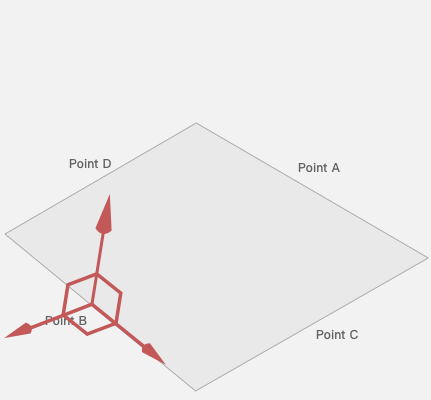
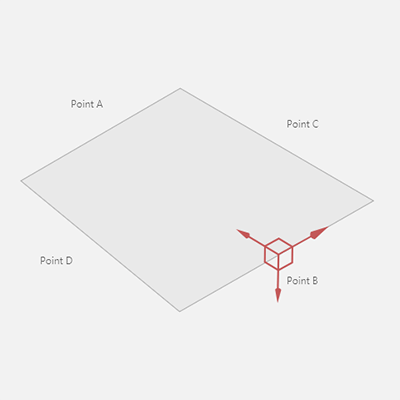
调整UI

diff --git a/web/src/components/Level/Index.jsx b/web/src/components/Level/Index.jsx
@@ -22,7 +22,8 @@ class Index extends React.Component {
         zArray: INIT_Z_ARRAY,
         lastConnectSerialPort: undefined,
         started: false,
-        serialPortState: null
+        serialPortState: null,
+        showLoading: false
     }
 
     onSetPoint = (event) => {
@@ -75,6 +76,7 @@ class Index extends React.Component {
         ];
         this.props.serialPortWrite(gcode.join('\n') + '\n');
         this.delayToConnectSerialPort(this, true, true, 'Level Started');
+        this.setState({showLoading: true});
     }
 
     onClickLevel = () => {
@@ -91,7 +93,7 @@ class Index extends React.Component {
         ];
         this.props.serialPortWrite(gcode.join('\n') + '\n');
         this.delayToConnectSerialPort(this, false, false, 'Level Done,you could reconnect the device.');
-
+        this.setState({showLoading: true});
     }
     delayToConnectSerialPort = (that, showModal, setStarted, msg) => {
         setTimeout(() => {
@@ -103,7 +105,7 @@ class Index extends React.Component {
             }
             if (paths.indexOf(lastConnectSerialPort) === -1) {
                 message.error('Device not Found');
-                this.setState({showModal: false});
+                this.setState({showModal: false, showLoading: false});
                 //找不到之前的串口
             } else {
                 //连接之前串口
@@ -124,7 +126,8 @@ class Index extends React.Component {
             message.success(msg);
             that.setState({
                 showModal,
-                started: setStarted
+                started: setStarted,
+                showLoading: false
             });
         }, 1000);
     }
@@ -157,7 +160,8 @@ class Index extends React.Component {
             accuracy: 10,
             zArray: INIT_Z_ARRAY,
             lastConnectSerialPort: path,
-            started: false
+            started: false,
+            showLoading: false
         });
     };
 
@@ -233,6 +237,16 @@ class Index extends React.Component {
                         <Space>
                             <img className={POINT_STYLE[pointIndex ? pointIndex : 0]}/>
                         </Space>
+                        <div
+                            className={this.state.showLoading ? styles.div_loading_visible : styles.div_loading_hidden}>
+                            <div className={styles.loading1}>
+                                <span></span>
+                                <span></span>
+                                <span></span>{/*进度条 勿删*/}
+                                <span></span>
+                                <span></span>
+                            </div>
+                        </div>
                     </Space>
                 </Modal>
             </div>

diff --git a/web/src/containers/basic/index.jsx b/web/src/containers/basic/index.jsx
@@ -33,8 +33,8 @@ class Index extends React.Component {
                     position: "absolute",
                     top: 0,
                     bottom: 0,
-                    right: "280px",
-                    width: "1.5px",
+                    right: "315px",
+                    width: "1px",
                     backgroundColor: "#C0C0C0"
                 }}/>
                 <div style={{
@@ -42,27 +42,28 @@ class Index extends React.Component {
                     top: 0,
                     right: 0,
                     bottom: 0,
-                    width: "280px",
-                    backgroundColor: "#f0f0f0",
+                    width: "315px",
+                    backgroundColor: "#F2F2F2",
                     overflowY: "scroll"
                 }}>
-                    <Tabs type="card" tabBarGutter={0} tabBarStyle={{width: "260px"}}>
+                    <Tabs type="card" centered={true} size="small" tabBarGutter={0}
+                          tabBarStyle={{height: "30px", width: "100%", marginBottom: "8px"}}>
                         <TabPane tab={
-                            <div style={{textAlign: "center", width: "42px", height: "100%"}}>
+                            <div style={{textAlign: "center", fontSize: "15px", width: "52px", height: "100%"}}>
                                 Control
                             </div>
                         } key="3">
                             <Control/>
                         </TabPane>
                         <TabPane tab={
-                            <div style={{textAlign: "center", width: "38px", height: "100%"}}>
+                            <div style={{textAlign: "center", fontSize: "15px", width: "52px", height: "100%"}}>
                                 Gcode
                             </div>
                         } key="2">
                             <Gcode/>
                         </TabPane>
                         <TabPane tab={
-                            <div style={{textAlign: "center", width: "76px", height: "100%"}}>
+                            <div style={{textAlign: "center", fontSize: "15px", width: "76px", height: "100%"}}>
                                 Teach & Play
                             </div>
                         } key="1">

diff --git a/web/src/components/Level/styles.css b/web/src/components/Level/styles.css
@@ -1,5 +1,5 @@
 .btn_action_work {
-    width: 255px;
+    width: 100%;
     height: 30px;
     outline: none;
     border: 1px solid #C0C0C0;
@@ -13,24 +13,105 @@
 
 .img_point_a {
     content: url("./images/pointA.png");
-    width: 430px;
+    width: 400px;
     height: 400px;
 }
 
 .img_point_b {
     content: url("./images/pointB.png");
-    width: 430px;
+    width: 400px;
     height: 400px;
 }
 
 .img_point_c {
     content: url("./images/pointC.png");
-    width: 430px;
+    width: 400px;
     height: 400px;
 }
 
 .img_point_d {
     content: url("./images/pointD.png");
-    width: 430px;
+    width: 400px;
     height: 400px;
+}
+
+.div_loading_hidden {
+    position: absolute;
+    left: 0px;
+    right: 0px;
+    top: 0px;
+    bottom: 0px;
+    background-color: #FFFFFFA0;
+    visibility: hidden;
+}
+
+.div_loading_visible {
+    position: absolute;
+    left: 0px;
+    right: 0px;
+    top: 0px;
+    bottom: 0px;
+    background-color: #FFFFFFA0;
+    visibility: visible;
+}
+
+.loading1 {
+    width: 50px;
+    height: 40px;
+    margin: 250px auto;
+    text-align: center;
+}
+
+.loading1 span {
+    width: 5px;
+    height: 100%;
+    display: inline-block;
+    background: #999999;;
+    margin: 2px;
+    animation: mymove 1.2s infinite ease-in-out;
+    -webkit-animation: mymove 1.2s infinite ease-in-out;
+    /*
+       mymove代表动画名字
+       1.2s代表执行时间
+       infinite表示一直循环执行
+       ease-in-out表示先慢后快的缓动
+   */
+}
+
+.loading1 > span:nth-child(2) {
+    -webkit-animation-delay: -1.0s;
+    animation-delay: -1.0s;
+}
+
+.loading1 > span:nth-child(3) {
+    -webkit-animation-delay: -0.9s;
+    animation-delay: -0.9s;
+}
+
+.loading1 > span:nth-child(4) {
+    -webkit-animation-delay: -0.8s;
+    animation-delay: -0.8s;
+}
+
+.loading1 > span:nth-child(5) {
+    -webkit-animation-delay: -0.7s;
+    animation-delay: -0.7s;
+}
+
+@keyframes mymove {
+    0% {
+        transform: scaleY(0.4);
+    }
+    25% {
+        transform: scaleY(1.0);
+    }
+    50% {
+        transform: scaleY(0.4);
+    }
+    75% {
+        transform: scaleY(0.4);
+    }
+    100% {
+        transform: scaleY(0.4);
+    }
 }

diff --git a/web/src/containers/basic/ui/Gcode/Index.jsx b/web/src/containers/basic/ui/Gcode/Index.jsx
@@ -80,7 +80,7 @@ class Index extends React.Component {
                     textColor="#292421"
                     delayShow={200}/>
                 <ReactTooltip/>
-                <Space direction={"vertical"} style={{width: "100%", paddingLeft: "5px", paddingRight: "5px"}}>
+                <Space direction={"vertical"} style={{width: "100%", padding: "6px"}}>
                     <Button
                         data-for={tooltipId}
                         // data-tip="Make sure that work origin had been setup before import 3rd part gcode."
@@ -123,7 +123,7 @@ class Index extends React.Component {
                 />
                 <Space direction={"vertical"} style={{width: "100%", paddingLeft: "5px", paddingRight: "5px"}}>
                     {this.state.fileName &&
-                    <div>
+                    <div style={{textAlign: "center"}}>
                         {this.state.fileName}
                     </div>}
                 </Space>

diff --git a/web/src/containers/basic/ui/Control/Index.jsx b/web/src/containers/basic/ui/Control/Index.jsx
@@ -81,7 +81,7 @@ class Index extends React.Component {
             <div>
                 <DeviceControl hideRunBoundary={true}/>
 
-                <div style={{padding: "10px 6px 0 6px"}}>
+                <div style={{padding: "6px"}}>
                     <Space direction={"vertical"} style={{width: "100%"}}>
                         <Select
                             style={{width: "100%", textAlign: "center"}}
@@ -106,7 +106,7 @@ class Index extends React.Component {
 
 
                 <Line/>
-                <div style={{padding: "0 6px 0 6px", width: "100%"}}>
+                <div style={{padding: "6px", width: "100%"}}>
                     <Space direction={"vertical"} style={{width: "100%"}}>
                         <Select
                             style={{width: "100%", textAlign: "center"}}

diff --git a/web/src/containers/basic/ui/TeachAndPlay/Index.jsx b/web/src/containers/basic/ui/TeachAndPlay/Index.jsx
@@ -71,7 +71,8 @@ class Index extends React.Component {
         return (
             <div style={{
                 width: "100%",
-                height: "100%"
+                height: "100%",
+                fontSize:"13px"
             }}>
                 <div style={{padding: "5px"}}>
                     <Row>
@@ -120,7 +121,7 @@ class Index extends React.Component {
                 </div>
 
                 <Line/>
-                <div style={{padding: "0px 6px 0px 6px"}}>
+                <div style={{padding: "6px 6px 0px 6px "}}>
                     {teachAndPlayMode &&
                     <Row>
                         <Col span={16}>

diff --git a/web/src/reducers/taps.js b/web/src/reducers/taps.js
@@ -5,7 +5,7 @@ const SET_TAP = "taps/SET_TAP";
 const ACTION_UPDATE_STATE = 'taps/ACTION_UPDATE_STATE';
 
 const INITIAL_STATE = {
-    tap: TAB_WRITE_AND_DRAW,
+    tap: TAP_BASIC,
     serialPortAssistantVisible: false
 };
 
